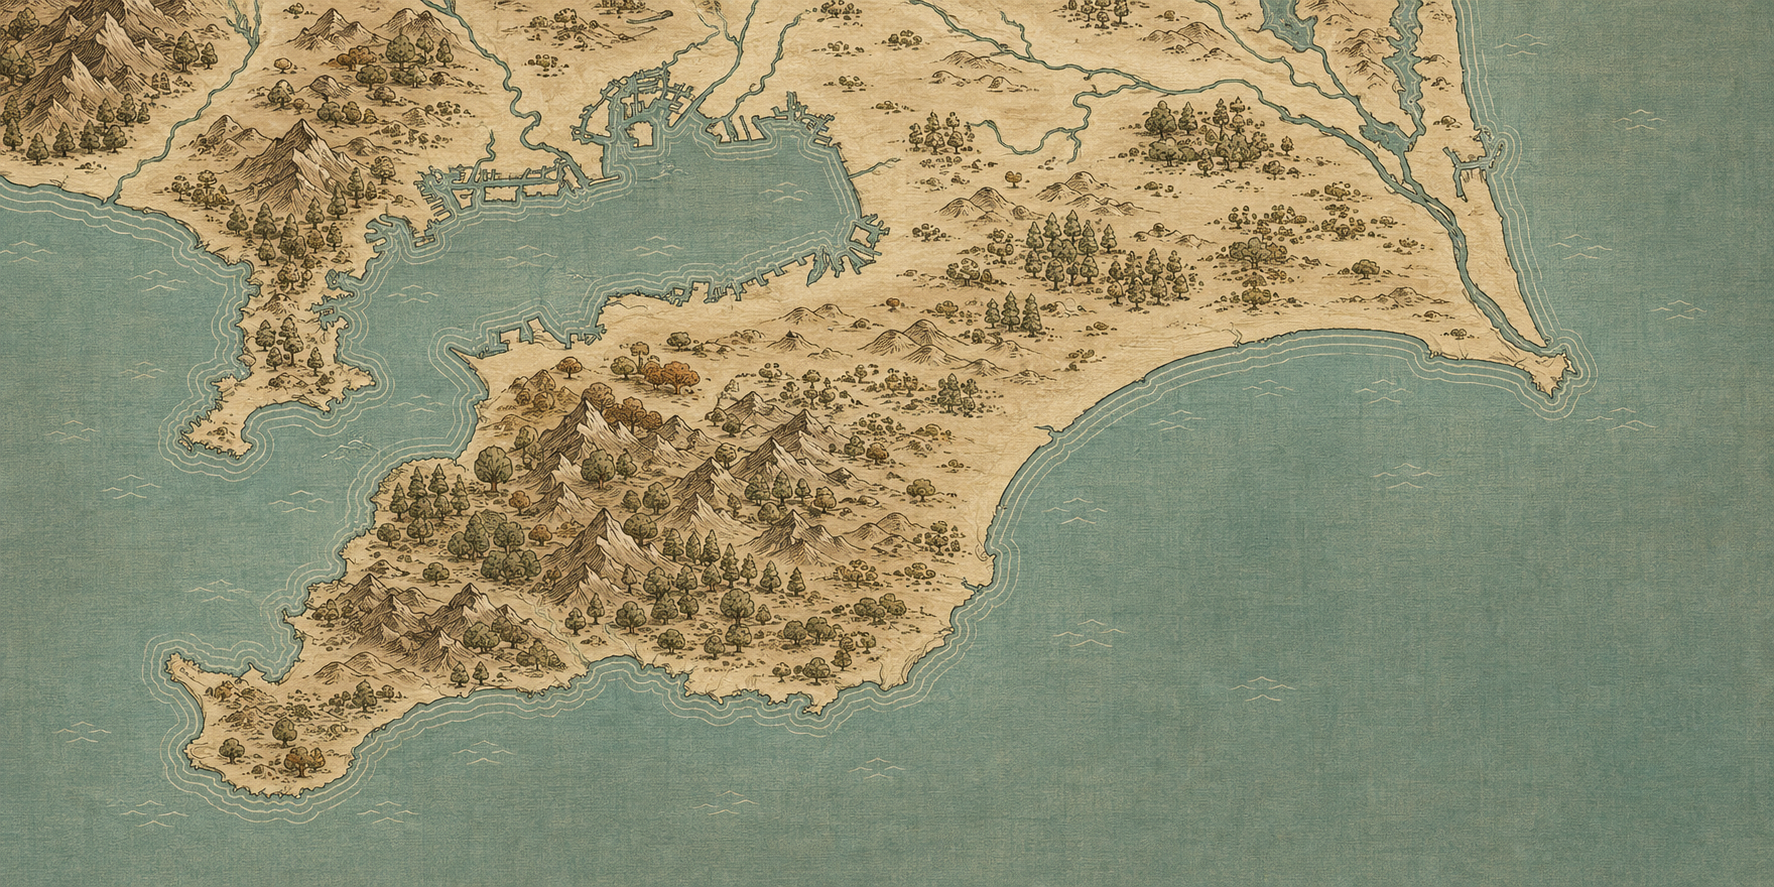
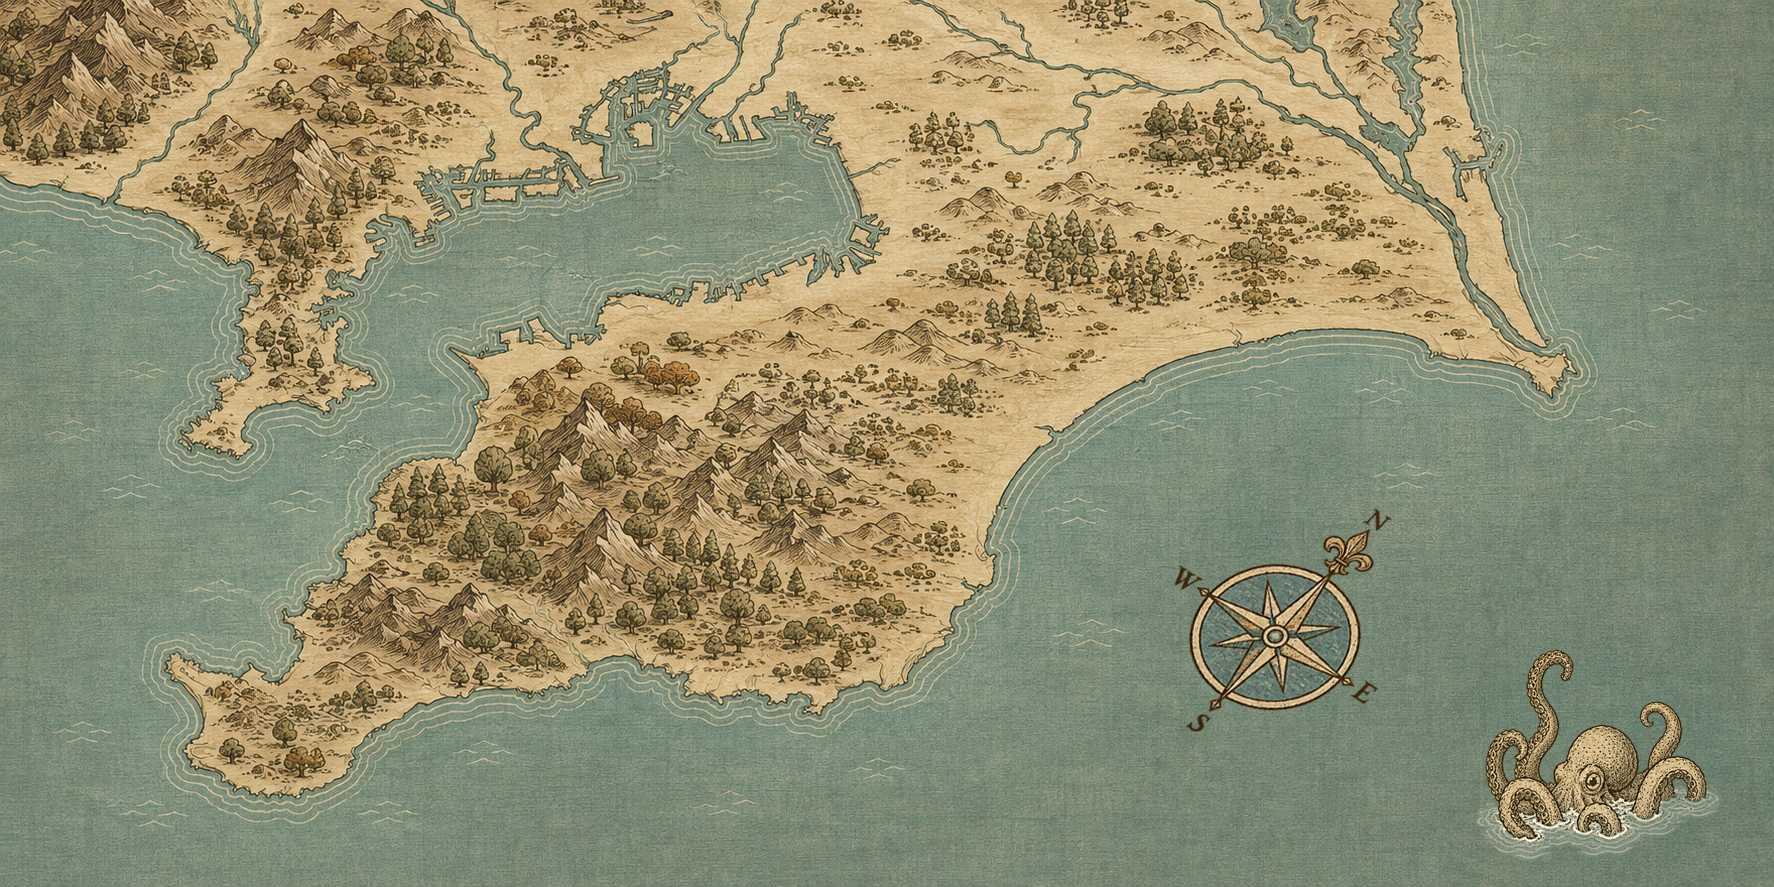
Updated map with compass and monster

Changed region(s): [[0.8371, 0.7306, 0.9611, 0.9741], [0.6511, 0.5784, 0.7751, 0.8219]]

diff --git a/rawsite/css/style.css b/rawsite/css/style.css
@@ -38,7 +38,7 @@ main{max-width:1180px;margin:0 auto;padding:3.5rem var(--pad) 4rem}section+secti
 .toc{margin:2.5rem 0 0}.toc ol{display:grid;grid-template-columns:repeat(auto-fit,minmax(280px,1fr));gap:1rem;list-style:none;margin:0;padding:0}.toc-item a{display:grid;grid-template-columns:auto 1fr;gap:.2rem .85rem;height:100%;padding:1.15rem;background:var(--kapa);border:2px solid var(--bark);color:inherit;text-decoration:none}.toc-item a:hover{background:var(--kapa-warm);border-color:var(--alaea)}.toc-num,.toc-count{color:var(--alaea);font:600 .75rem var(--sans);letter-spacing:.14em}.toc-text{display:grid;gap:.15rem}.toc-title{font:900 1.2rem/1 var(--display);letter-spacing:-.015em;text-transform:uppercase}.toc-blurb{color:var(--ink-soft);font-size:.92rem;line-height:1.4}.toc-count{grid-column:2}
 
 /* map */
-.surfmap{max-width:920px;margin:0 auto}.surfmap-frame{background:var(--bark)}.surfmap svg{display:block;width:100%;height:auto}.surfmap--mini{max-width:420px}.pin{stroke:var(--kapa);stroke-width:4;transition:r .18s ease,stroke-width .18s ease}.pin-label{font-family:var(--map);font-size:36pt;font-weight:800;letter-spacing:.03em;fill:#000;stroke:var(--koa);stroke-width:7px;paint-order:stroke fill;transition:font-size .18s ease,stroke-width .18s ease}.spot-marker:hover .pin,.spot-marker:focus-visible .pin{r:17;stroke-width:5}.spot-marker:hover .pin-label,.spot-marker:focus-visible .pin-label{font-size:52pt;stroke-width:8px}.surfmap figcaption{display:flex;flex-wrap:wrap;gap:.45rem 1.1rem;margin-top:.85rem;padding:.65rem .8rem;color:var(--ink-soft);font-size:.85rem;background:var(--kapa-warm);border:1px solid var(--kapa-line)}.legend-title{font-family:var(--sans);font-weight:600;letter-spacing:.08em;text-transform:uppercase}.legend{display:inline-flex;gap:.35rem;align-items:center}.legend i{width:.68rem;height:.68rem;background:var(--badge);transform:rotate(45deg)}.map-note{flex:1 1 22rem}
+.surfmap{max-width:1100px;margin:0 auto}.surfmap-frame{background:var(--bark)}.surfmap svg{display:block;width:100%;height:auto}.surfmap--mini{max-width:420px}.pin{stroke:var(--kapa);stroke-width:4;transition:r .18s ease,stroke-width .18s ease}.pin-label{font-family:var(--map);font-size:36pt;font-weight:800;letter-spacing:.03em;fill:#000;stroke:var(--koa);stroke-width:7px;paint-order:stroke fill;transition:font-size .18s ease,stroke-width .18s ease}.spot-marker:hover .pin,.spot-marker:focus-visible .pin{r:17;stroke-width:5}.spot-marker:hover .pin-label,.spot-marker:focus-visible .pin-label{font-size:52pt;stroke-width:8px}.surfmap figcaption{display:flex;flex-wrap:wrap;gap:.45rem 1.1rem;margin-top:.85rem;padding:.65rem .8rem;color:var(--ink-soft);font-size:.85rem;background:var(--kapa-warm);border:1px solid var(--kapa-line)}.legend-title{font-family:var(--sans);font-weight:600;letter-spacing:.08em;text-transform:uppercase}.legend{display:inline-flex;gap:.35rem;align-items:center}.legend i{width:.68rem;height:.68rem;background:var(--badge);transform:rotate(45deg)}.map-note{flex:1 1 22rem}
 
 /* cards */
 .cards{display:grid;grid-template-columns:repeat(auto-fill,minmax(280px,1fr));gap:1.25rem;margin-top:1.5rem}.card{display:flex;flex-direction:column;background:var(--kapa);border:2px solid var(--bark);overflow:hidden}.card:hover{border-color:var(--alaea);background:var(--kapa-warm)}.card-media{display:flex;align-items:center;justify-content:center;min-height:172px;line-height:0;background:var(--koa);border-bottom:1px solid var(--kapa-line)}.card-media img{display:block;width:100%;height:auto}.card-media .card-board{width:auto;height:180px;max-width:100%;object-fit:contain;padding:.5rem 0;filter:drop-shadow(3px 7px 6px rgba(46,32,16,.34))}.card-body{display:flex;flex:1;flex-direction:column;gap:.5rem;padding:1.05rem 1.15rem 1.2rem}.card-body h3 a{color:var(--char);text-decoration:none}.card-summary{flex:1;margin:0;color:var(--ink-soft);font-size:.96rem}.card-meta{display:flex;flex-wrap:wrap;align-items:center;gap:.5rem;margin:0;color:var(--ink-muted);font:400 .76rem var(--sans);letter-spacing:.08em;text-transform:uppercase}.badge{display:inline-block;background:var(--badge);border-radius:999px;color:var(--char);padding:.15rem .55rem;font:600 .68rem var(--sans);letter-spacing:.11em}.read-more{font:600 .76rem var(--sans);letter-spacing:.13em;text-decoration:none;text-transform:uppercase}.taglist ul,ul.taglist{display:flex;flex-wrap:wrap;gap:.35rem;list-style:none;margin:0;padding:0}.taglist li a{display:inline-block;border:1px solid var(--kapa-line);color:var(--bark);padding:.1rem .4rem;font:400 .72rem var(--sans);letter-spacing:.08em;text-decoration:none}.taglist li a:hover{background:var(--bark);color:var(--kapa)}.taglist--page{display:flex;flex-wrap:wrap;align-items:center;gap:.6rem;margin:2.5rem 0 0}.taglist-label{color:var(--ink-muted);font:400 .78rem var(--sans);letter-spacing:.1em;text-transform:uppercase}

diff --git a/rawsite/_include/sitedata.py b/rawsite/_include/sitedata.py
@@ -835,40 +835,40 @@ MAP = {
         # All labels use a right-aligned SVG anchor so their ends retain a
         # consistent small gap from the waterline in every language.
         "asahi": {
-            "x": 1410,
-            "y": 320,
-            "rotation": 29,
-            "skew": -23
+            "x": 1440,
+            "y": 340,
+            "rotation": 32,
+            "skew": -11
         },
         "sosa": {
             "x": 1280,
             "y": 325,
-            "rotation": 29,
-            "skew": -23
+            "rotation": 32,
+            "skew": -11
         },
         "sakuta": {
             "x": 1120,
             "y": 380,
-            "rotation": 29,
-            "skew": -23
+            "rotation": 32,
+            "skew": -11
         },
         "ichinomiya": {
             "x": 980,
             "y": 500,
-            "rotation": 29,
-            "skew": -23
+            "rotation": 32,
+            "skew": -11
         },
         "katsuura": {
             "x": 820,
             "y": 690,
-            "rotation": 29,
-            "skew": -23
+            "rotation": 32,
+            "skew": -11
         },
         "fujisawa": {
             "x": 300,
             "y": 255,
-            "rotation": 29,
-            "skew": -23
+            "rotation": 32,
+            "skew": -11
         },
     },
 }
